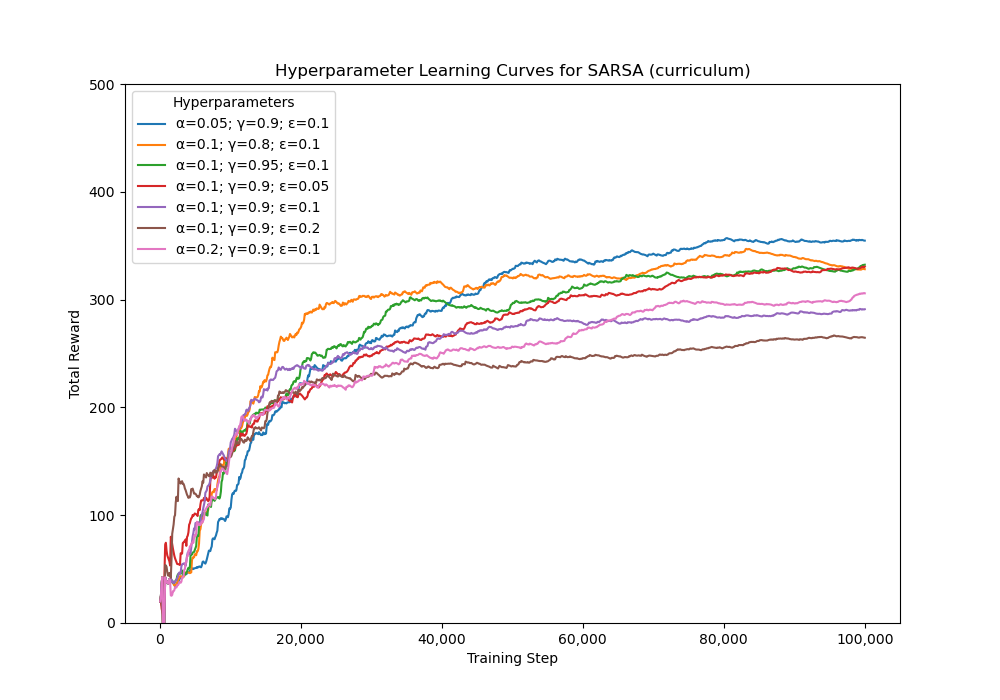
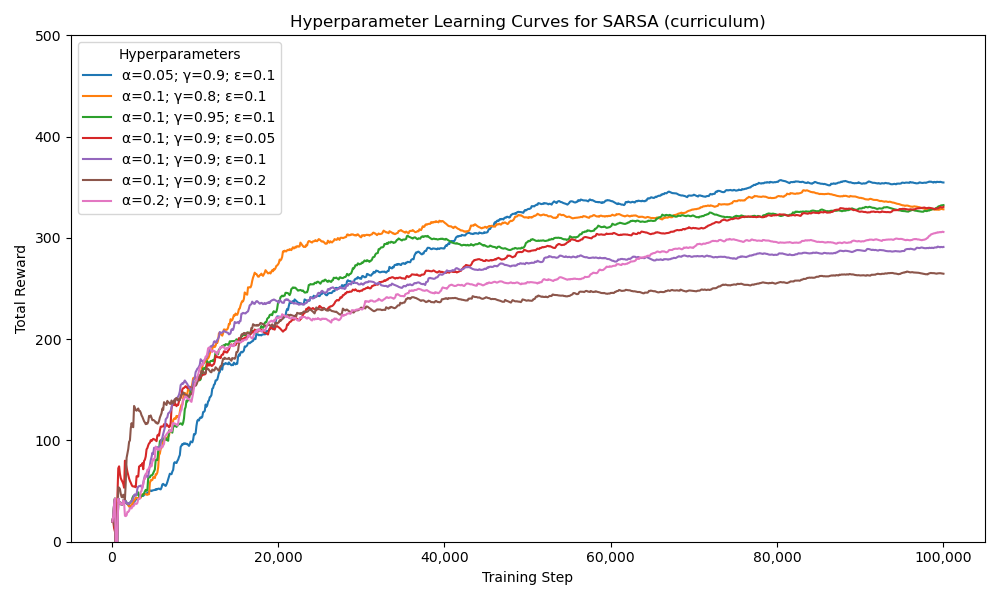
Squashed commit of the following:
commit 58bd278513daeecfbceb242df8ad953038551d11
Author: Matthew Renze <matthew@matthewrenze.com>
Date:   Thu Apr 18 15:24:12 2024 -0700

    Updated data visualizations

diff --git a/source/6_analyze_results.py b/source/6_analyze_results.py
@@ -31,63 +31,15 @@ results["treatment_name"] = results.apply(lambda row: f"{row['agent_name']}\n({'
 results = results.sort_values(by=["agent_name", "curriculum"])
 
 # NOTE: Cast curriculum to a string, so it can be used to set the hue
-results["curriculum"] = results["curriculum"].astype(int)
+results["curriculum"] = results["curriculum"].astype(str)
 
 
-# Plot percentage of visited states by training step
-plt.figure(figsize=(10, 7))
-ax = sns.lineplot(
-    x="episode",
-    y="percent_states_visited",
-    hue="treatment_name",
-    data=results)
-plt.title("Average Percentage of States Visited per Episode")
-plt.xlabel("Episode")
-plt.ylabel("Percentage of States Visited")
-plt.ylim(0, 100)
-plt.savefig(f"../data/plots/training/percent_states_visited_by_agent.png")
-plt.show()
-
-
-# Plot total the average step runtime across 100 episodes by agent
-# Set the color to blue for the baseline and orange for the curriculum
-plt.figure(figsize=(10, 7))
-ax = sns.barplot(
-    x="treatment_name",
-    y="duration",
-    data=results,
-    capsize=0.1)
-plt.title("Average Step Runtime by Agent")
-plt.xlabel("Agent")
-plt.ylabel("Runtime (seconds)")
-plt.xticks(rotation=15, ha="right")
-plt.subplots_adjust(bottom=0.15)
-# and add a label above each bar and slightly to the right
-for p in plt.gca().patches:
-    plt.gca().annotate(
-        f"{p.get_height():,.3f}",
-        (p.get_x() + p.get_width() / 2 + 0.25, p.get_height()),
-        ha="center",
-        va="center",
-        fontsize=11,
-        color="black",
-        xytext=(0, 10),
-        textcoords="offset points")
-for line in ax.lines:
-    line.set_color("grey")
-    line.set_mfc("grey")
-    line.set_mec("grey")
-plt.tight_layout()
-plt.savefig(f"../data/plots/results/avg_runtime_by_agent.png")
-plt.show()
-
-
-# Plot total the total reward per episode by agent
 # Set the color to blue for the baseline and orange for the curriculum
 blue = sns.color_palette("tab10")[0]
 orange = sns.color_palette("tab10")[1]
+
 # Plot the total reward by agent
-plt.figure(figsize=(10, 7))
+plt.figure(figsize=(10, 6))
 ax = sns.barplot(
     x="treatment_name",
     y="total_reward",
@@ -103,7 +55,6 @@ plt.xticks(rotation=15, ha="right")
 ax.get_yaxis().set_major_formatter(
     matplotlib.ticker.FuncFormatter(lambda x, p: format(int(x), ',')))
 plt.subplots_adjust(bottom=0.15)
-# and add a label above each bar and slightly to the right
 for p in plt.gca().patches:
     plt.gca().annotate(
         f"{p.get_height():,.0f}",
@@ -114,12 +65,64 @@ for p in plt.gca().patches:
         color="black",
         xytext=(0, 10),
         textcoords="offset points")
-# Change the color of the confidence bars to grey
-for line in ax.lines:
-    line.set_color("grey")
-    line.set_mfc("grey")
-    line.set_mec("grey")
-matplotlib.ticker.FuncFormatter(lambda x, p: format(int(x), ','))
 plt.tight_layout()
 plt.savefig(f"../data/plots/results/total_reward_by_agent.png")
+plt.show()
+
+# Plot percentage of visited states by training step
+plt.figure(figsize=(10, 6))
+ax = sns.barplot(
+    x="treatment_name",
+    y="percent_states_visited",
+    palette=[blue, orange],
+    data=results,
+    ci=None)
+for p in plt.gca().patches:
+    plt.gca().annotate(
+        f"{p.get_height():,.0f}",
+        (p.get_x() + p.get_width() / 2, p.get_height()),
+        ha="center",
+        va="center",
+        fontsize=11,
+        color="black",
+        xytext=(0, 10),
+        textcoords="offset points")
+plt.title("Average Percentage of States Visited per Episode")
+plt.xlabel("Episode")
+plt.xticks(rotation=20, ha="right")
+plt.ylabel("States Visited (%)")
+plt.ylim(0, 100)
+plt.tight_layout()
+plt.savefig(f"../data/plots/results/percent_states_visited_by_agent.png")
+plt.show()
+
+
+# Convert duration to milliseconds
+results["duration"] = results["duration"] * 1000
+
+# Plot average episode runtime
+plt.figure(figsize=(10, 6))
+ax = sns.barplot(
+    x="treatment_name",
+    y="duration",
+    data=results,
+    palette=[blue, orange],
+    ci=None)
+plt.title("Average Step Runtime by Agent")
+plt.xlabel("Agent")
+plt.ylabel("Runtime (ms)")
+plt.xticks(rotation=20, ha="right")
+plt.subplots_adjust(bottom=0.15)
+for p in plt.gca().patches:
+    plt.gca().annotate(
+        f"{p.get_height():,.2f}",
+        (p.get_x() + p.get_width() / 2, p.get_height()),
+        ha="center",
+        va="center",
+        fontsize=11,
+        color="black",
+        xytext=(0, 10),
+        textcoords="offset points")
+plt.tight_layout()
+plt.savefig(f"../data/plots/results/avg_runtime_by_agent.png")
 plt.show()

diff --git a/source/environments/legal_positions.py b/source/environments/legal_positions.py
@@ -1,0 +1,57 @@
+def find_legal_positions(tiles, current_position):
+    legal_positions = []
+    all_positions = [current_position]
+    height = tiles.shape[0]
+    width = tiles.shape[1]
+
+    transitions = [(-1,0),(1,0),(0,-1),(0,1)]
+    for i in transitions: 
+        new_x = current_position[0] + i[0]
+        new_y = current_position[1] + i[1]
+        new_location = (new_x, new_y)
+
+        if _can_teleport(new_location, height, width):
+            new_location = _teleport(new_location, height, width)
+    
+        if tiles[new_location] != 1:
+            legal_positions.append(new_location)
+        else: 
+            new_location = current_position
+        
+        all_positions.append(new_location)
+
+    return legal_positions, all_positions
+
+def find_legal_actions(tiles, current_position): 
+    transitions = [(0,0),(-1,0),(1,0),(0,-1),(0,1)]
+    legal_positions = find_legal_positions(tiles, current_position)[0]
+    legal_positions.append((current_position[0],current_position[1]))
+    legal_actions = []
+    for i in range(len(transitions)): 
+        delta = transitions[i]
+        if (current_position[0]+delta[0], current_position[1]+delta[1]) in legal_positions: 
+            legal_actions.append(i)
+    return legal_actions
+
+def _can_teleport(new_location: tuple[int, int], height, width) -> bool:
+    if new_location[0] < 0 \
+            or new_location[1] < 0 \
+            or new_location[0] >= height \
+            or new_location[1] >= width:
+        return True
+    return False
+
+
+def _teleport(new_location: tuple[int, int], height, width) -> tuple[int, int]:
+    if new_location[0] < 0:
+        new_location = (height - 1, new_location[1])
+    if new_location[0] >= height:
+        new_location = (0, new_location[1])
+    if new_location[1] < 0:
+        new_location = (new_location[0], width - 1)
+    if new_location[1] >= width:
+        new_location = (new_location[0], 0)
+    return new_location
+
+    
+        

diff --git a/source/2b_analyze_features.py b/source/2b_analyze_features.py
@@ -44,7 +44,7 @@ for treatment in treatments:
     # Plot total reward by training step grouped by hyperparameter treatment
     plot_file_name = f"{file_name.split('.')[0]}.png"
     plot_title = f"Feature Learning Curves for {treatment_name}"
-    plt.figure(figsize=(10, 7))
+    plt.figure(figsize=(10, 6))
     ax = sns.lineplot(
         x="training_step",
         y="rolling_total_reward",
@@ -55,7 +55,8 @@ for treatment in treatments:
     ax.get_xaxis().set_major_formatter(
         matplotlib.ticker.FuncFormatter(lambda x, p: format(int(x), ',')))
     plt.ylabel("Total Reward")
-    plt.ylim(0, 500)
+    plt.ylim(0, 100)
     plt.legend(title="Hyperparameters")
+    plt.tight_layout()
     plt.savefig(f"../data/plots/features/{plot_file_name}")
     plt.show()

diff --git a/source/2a_analyze_hyperparameters.py b/source/2a_analyze_hyperparameters.py
@@ -50,7 +50,7 @@ for treatment in treatments:
     # Plot total reward by training step grouped by hyperparameter treatment
     plot_file_name = f"{file_name.split('.')[0]}.png"
     plot_title = f"Hyperparameter Learning Curves for {treatment_name}"
-    plt.figure(figsize=(10, 7))
+    plt.figure(figsize=(10, 6))
     ax = sns.lineplot(
         x="training_step",
         y="rolling_total_reward",
@@ -63,5 +63,6 @@ for treatment in treatments:
     plt.ylabel("Total Reward")
     plt.ylim(0, 500)
     plt.legend(title="Hyperparameters")
+    plt.tight_layout()
     plt.savefig(f"../data/plots/hyperparameters/{plot_file_name}")
     plt.show()

diff --git a/source/4_analyze_learning.py b/source/4_analyze_learning.py
@@ -38,8 +38,8 @@ smoothed_details.reset_index(drop=True, inplace=True)
 
 details = details.sort_values(by=["agent_name", "curriculum"])
 
-# # Plot total reward by training step
-plt.figure(figsize=(10, 7))
+# Plot total reward by training step
+plt.figure(figsize=(10, 6))
 ax = sns.lineplot(
     x="training_step",
     y="rolling_total_reward",
@@ -56,5 +56,6 @@ plt.ylabel("Total Reward")
 plt.ylim(0, 1_250)
 ax.get_yaxis().set_major_formatter(
     matplotlib.ticker.FuncFormatter(lambda x, p: format(int(x), ',')))
+plt.tight_layout()
 plt.savefig(f"../data/plots/training/learning_curves.png")
 plt.show()
